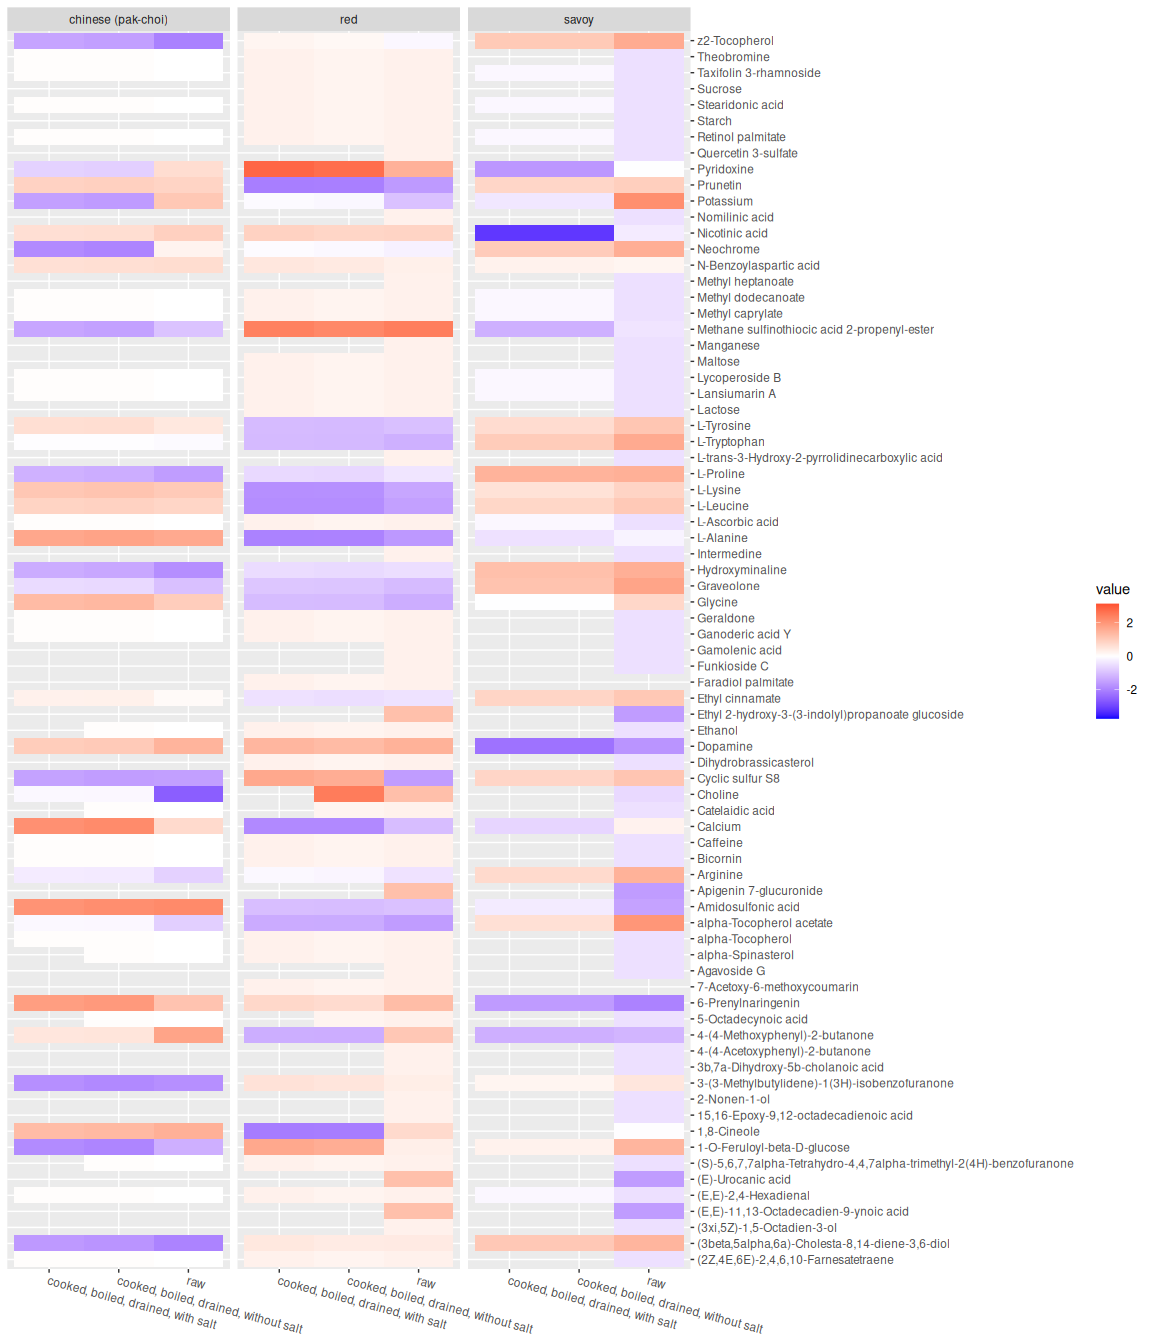
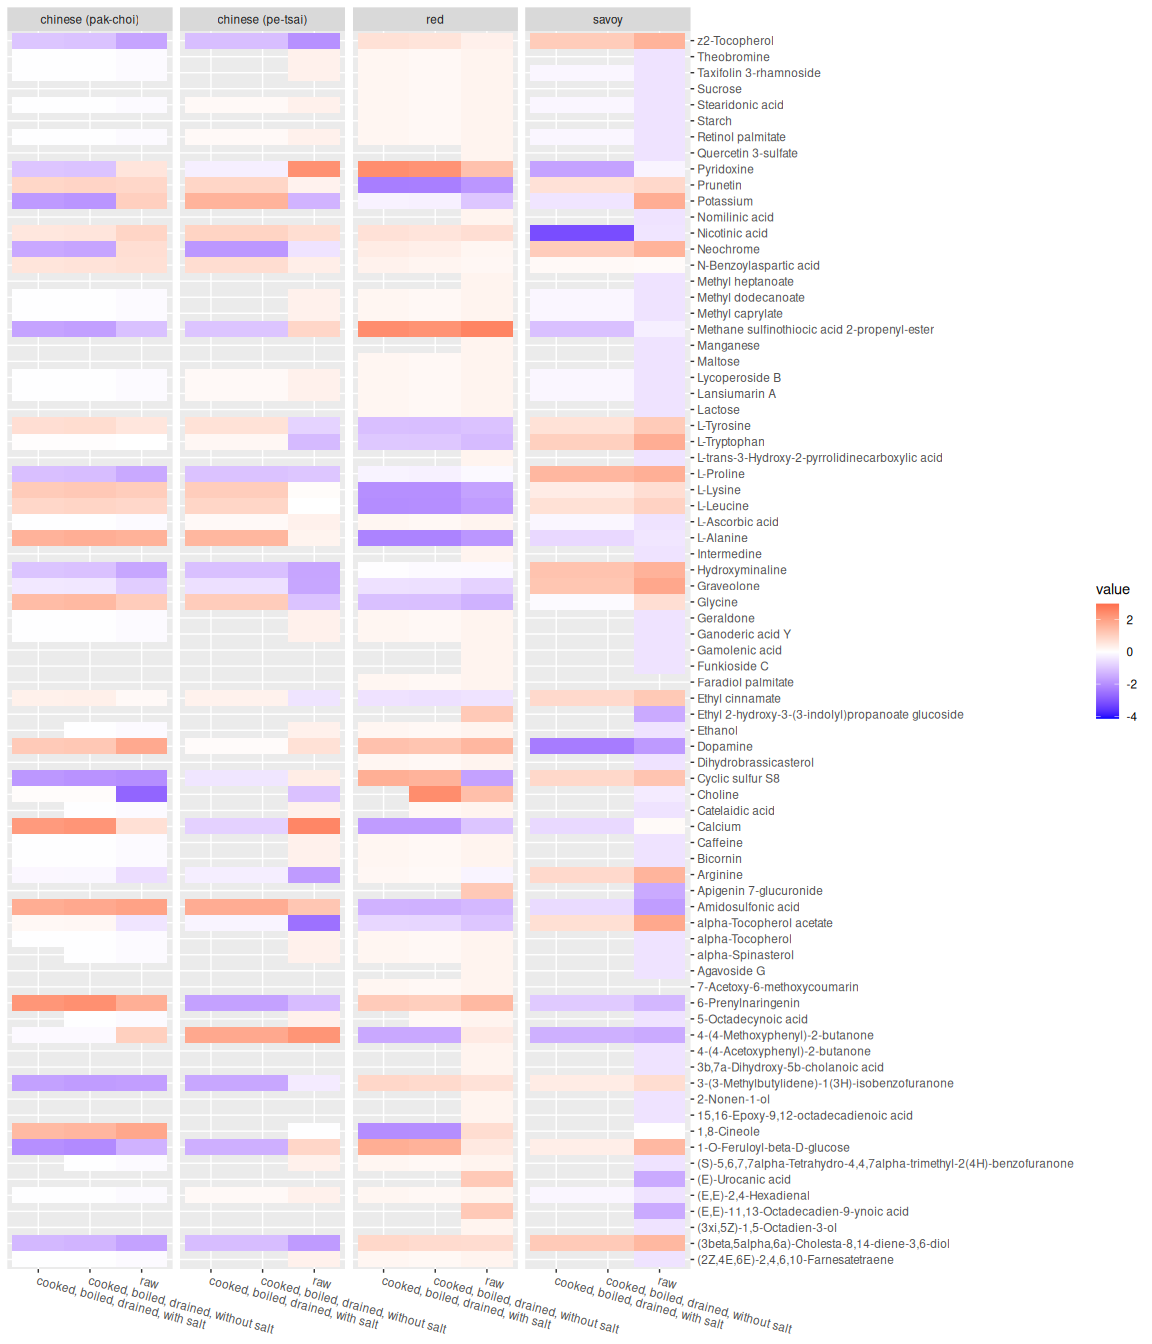
up

diff --git a/README.md b/README.md
@@ -51,7 +51,7 @@ cabbage_df %>%
 
     xlab(NULL) + 
     ylab(NULL) + 
-    facet_wrap(~food_1, scales = "free_x") +
+    facet_wrap(~food_1, scales = "free_x", ncol = 4) +
     theme(axis.text.x = element_text(hjust = 0, angle = 345))
 ```
 
